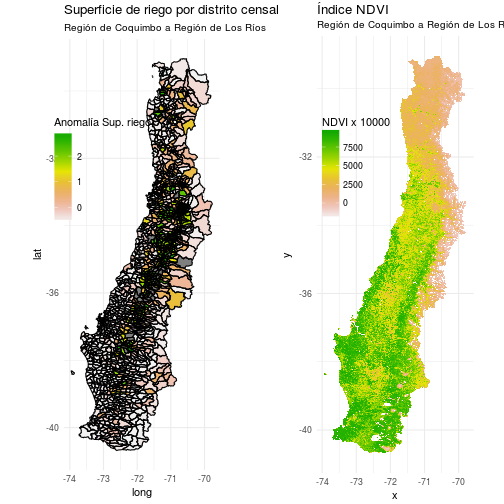
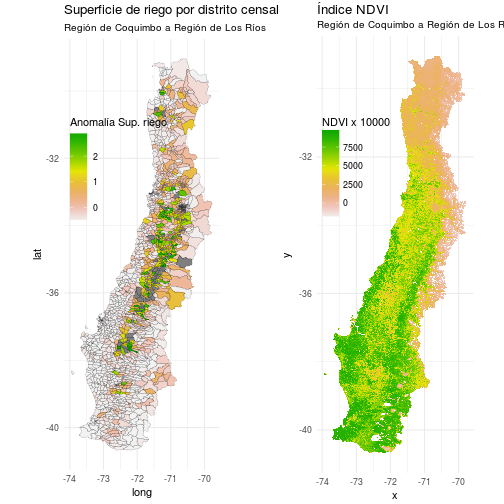
adding rgeos and rgdal

Changed region(s): [[0.0893, 0.119, 0.4167, 0.8929]]

diff --git a/index.html b/index.html
@@ -236,6 +236,7 @@
 Roger Bivand and Nicholas Lewin-Koh (2017). maptools: <a href="https://CRAN.R-project.org/package=maptools">Tools for Reading and Handling Spatial Objects. R package version 0.8-41</a></p></li>
 <li><p><code>raster</code>: series temporales de datos grillados geo-espaciales.<br>
 Robert J. Hijmans (2016). raster: <a href="https://CRAN.R-project.org/package=raster">Geographic Data Analysis and Modeling. R package version 2.5-8</a></p></li>
+<li><p><code>rgeos &amp; rgdal</code>: interfaces para GEOS y GDAL.</p></li>
 </ul>
 
 </div>
@@ -338,14 +339,14 @@ ndvi &lt;- raster(&#39;spatial_data/raster/NDVI.tif&#39;)
 #Superficie de riego (Vectorial)
 shp.f &lt;- ggplot2::fortify(shp,region=&#39;coddis&#39;)
 p1 &lt;- ggplot() +
-  geom_map(data=shp@data,aes(map_id = coddis,fill=as.numeric(sup_riego)),colour=NA,map = shp.f,size=0.05) +
-  geom_polygon(data=shp.f,aes(x=long,y=lat,group=group),color=&#39;black&#39;,fill=NA)+
+  geom_map(data=shp@data,aes(map_id = coddis,fill=as.numeric(sup_riego)),colour=NA,map = shp.f) +
+  geom_polygon(data=shp.f,aes(x=long,y=lat,group=group),color=&#39;black&#39;,size=0.05,fill=NA)+
   scale_fill_gradientn(&#39;Anomalía Sup. riego&#39;,colours = rev(terrain.colors(10)))+
   labs(title=&#39;Superficie de riego por distrito censal&#39;,
   subtitle=&#39;Región de Coquimbo a Región de Los Ríos&#39;)+
   coord_equal()+
   theme_minimal()+
-  theme(legend.position=c(.25,.7))
+  theme(legend.position=c(.35,.7))
 </code></pre>
 
   </article>

diff --git a/index.md b/index.md
@@ -135,6 +135,7 @@ Roger Bivand and Nicholas Lewin-Koh (2017). maptools: [Tools for Reading and Han
 - `raster`: series temporales de datos grillados geo-espaciales.  
 Robert J. Hijmans (2016). raster: [Geographic Data Analysis and Modeling. R package version 2.5-8](https://CRAN.R-project.org/package=raster)
 
+- `rgeos & rgdal`: interfaces para GEOS y GDAL.
 
 *** =right
 
@@ -216,14 +217,14 @@ library(ggplot2)
 #Superficie de riego (Vectorial)
 shp.f <- ggplot2::fortify(shp,region='coddis')
 p1 <- ggplot() +
-  geom_map(data=shp@data,aes(map_id = coddis,fill=as.numeric(sup_riego)),colour=NA,map = shp.f,size=0.05) +
-  geom_polygon(data=shp.f,aes(x=long,y=lat,group=group),color='black',fill=NA)+
+  geom_map(data=shp@data,aes(map_id = coddis,fill=as.numeric(sup_riego)),colour=NA,map = shp.f) +
+  geom_polygon(data=shp.f,aes(x=long,y=lat,group=group),color='black',size=0.05,fill=NA)+
   scale_fill_gradientn('Anomalía Sup. riego',colours = rev(terrain.colors(10)))+
   labs(title='Superficie de riego por distrito censal',
   subtitle='Región de Coquimbo a Región de Los Ríos')+
   coord_equal()+
   theme_minimal()+
-  theme(legend.position=c(.25,.7))
+  theme(legend.position=c(.35,.7))
 ```
 
 ---
